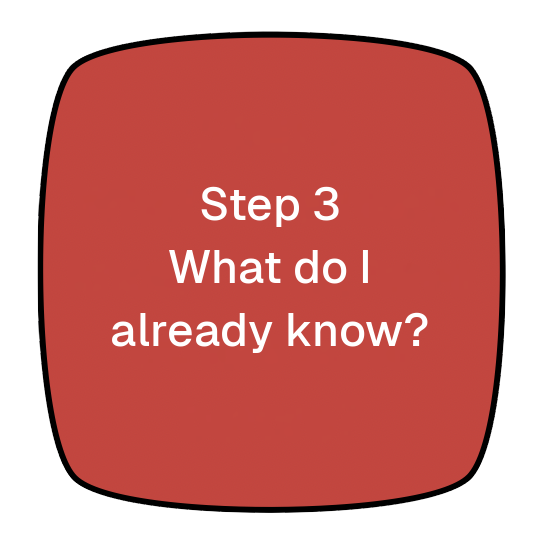
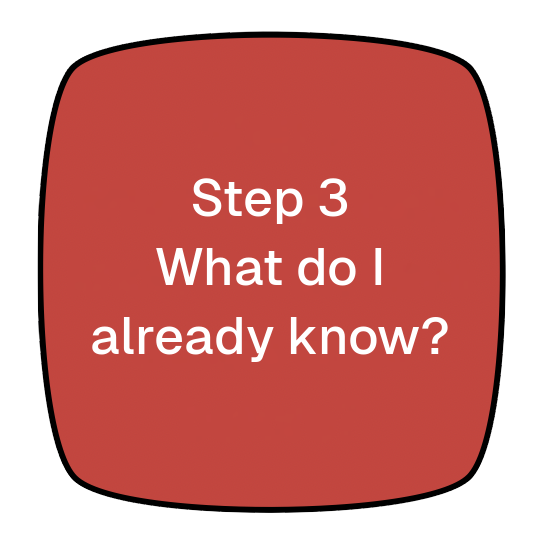
Step tiles: bump text size 46->52px, ?v=4

diff --git a/hopscotch-ui/src/App.jsx b/hopscotch-ui/src/App.jsx
@@ -238,7 +238,7 @@ const STEP_TILE_LANGS = ["es", "zh"];
 function StepDiagram({ activeStep, completedSteps = [], onStepChange, lockedSteps = [] }) {
   const { lang, t } = useLang();
   // bump ?v= when tile images change in place, so CDN/browser caches refetch
-  const stepImg = (n) => (STEP_TILE_LANGS.includes(lang) ? `/steps/${lang}/Step${n}.png?v=3` : `/Step${n}.png?v=3`);
+  const stepImg = (n) => (STEP_TILE_LANGS.includes(lang) ? `/steps/${lang}/Step${n}.png?v=4` : `/Step${n}.png?v=4`);
   return (
     <div className="hop-diagram">
       {HOPSCOTCH_COLUMNS.map((col, ci) => (
